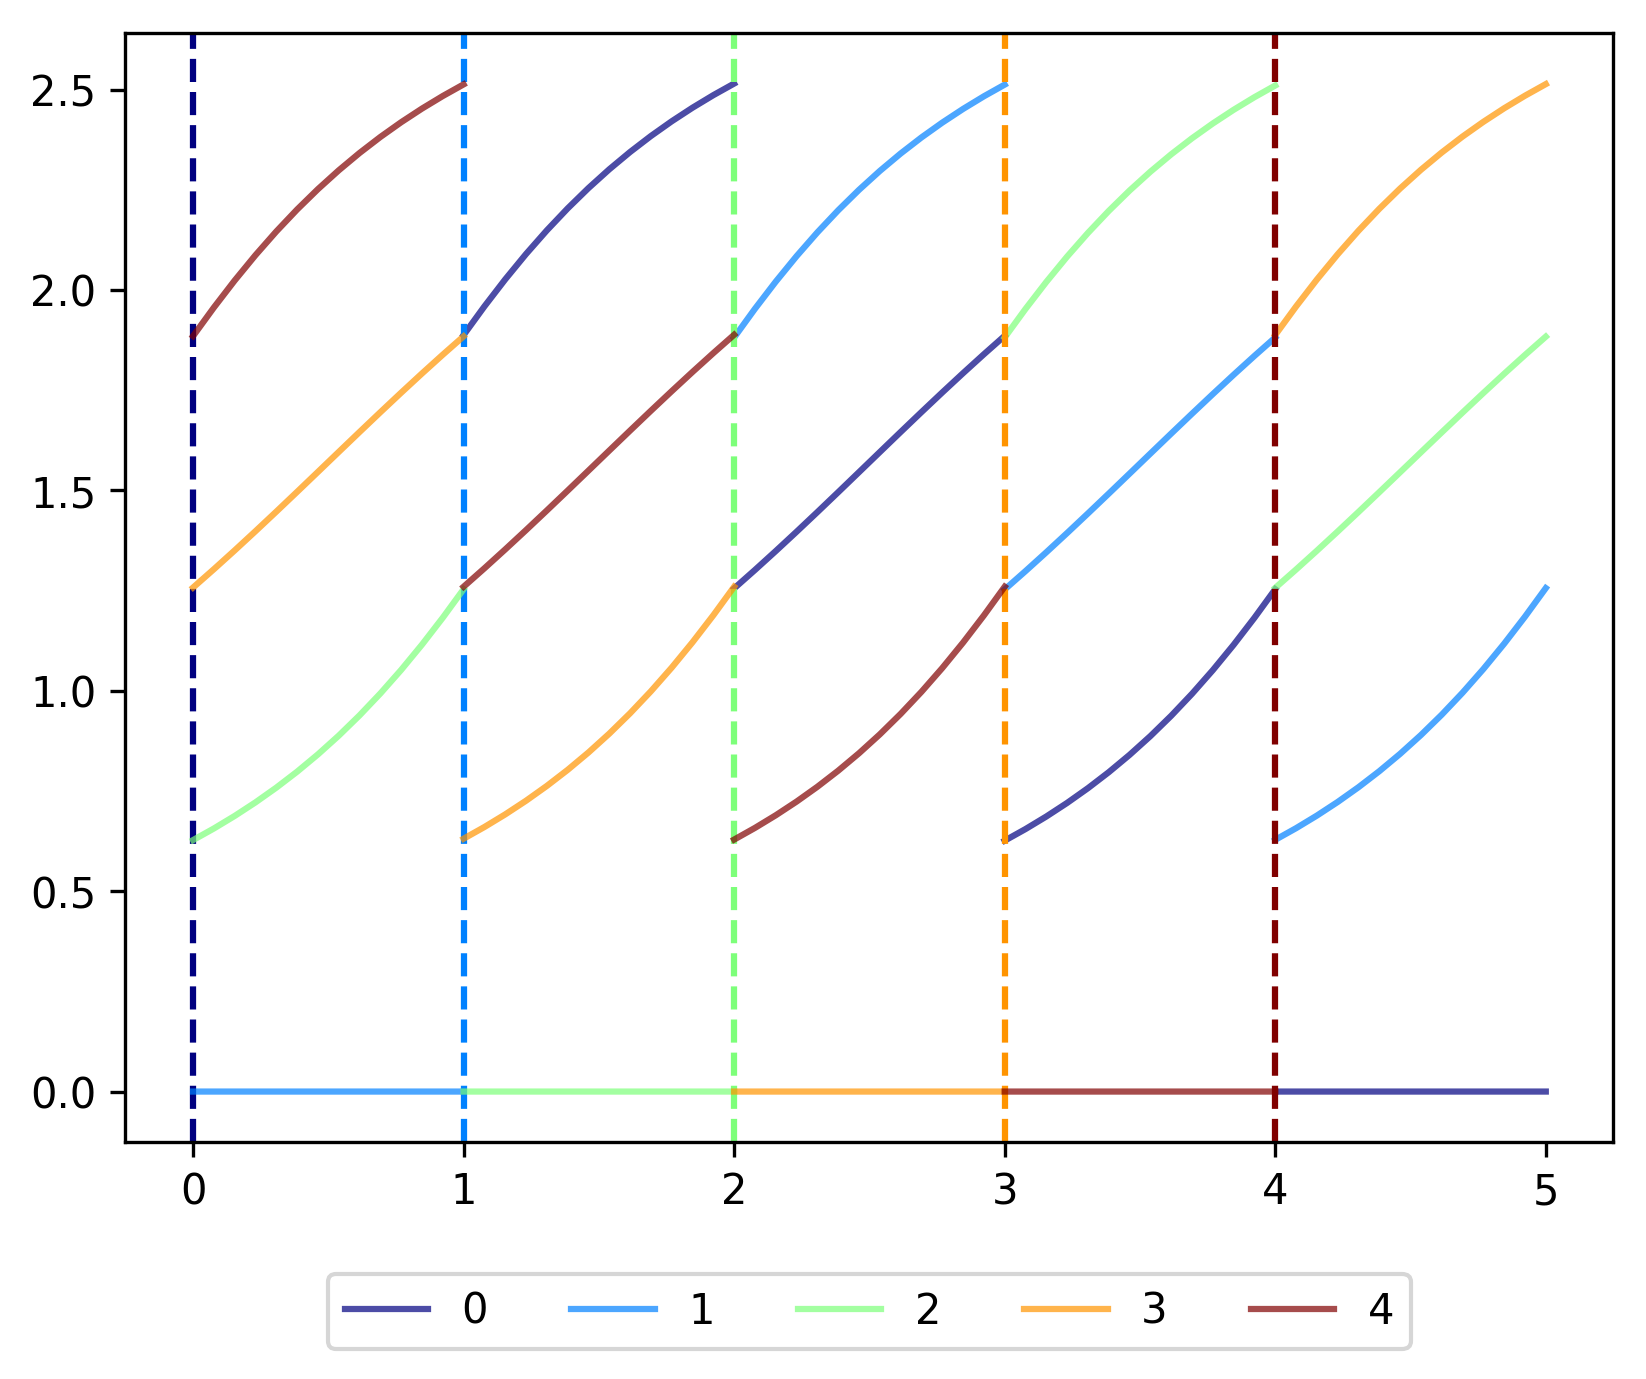
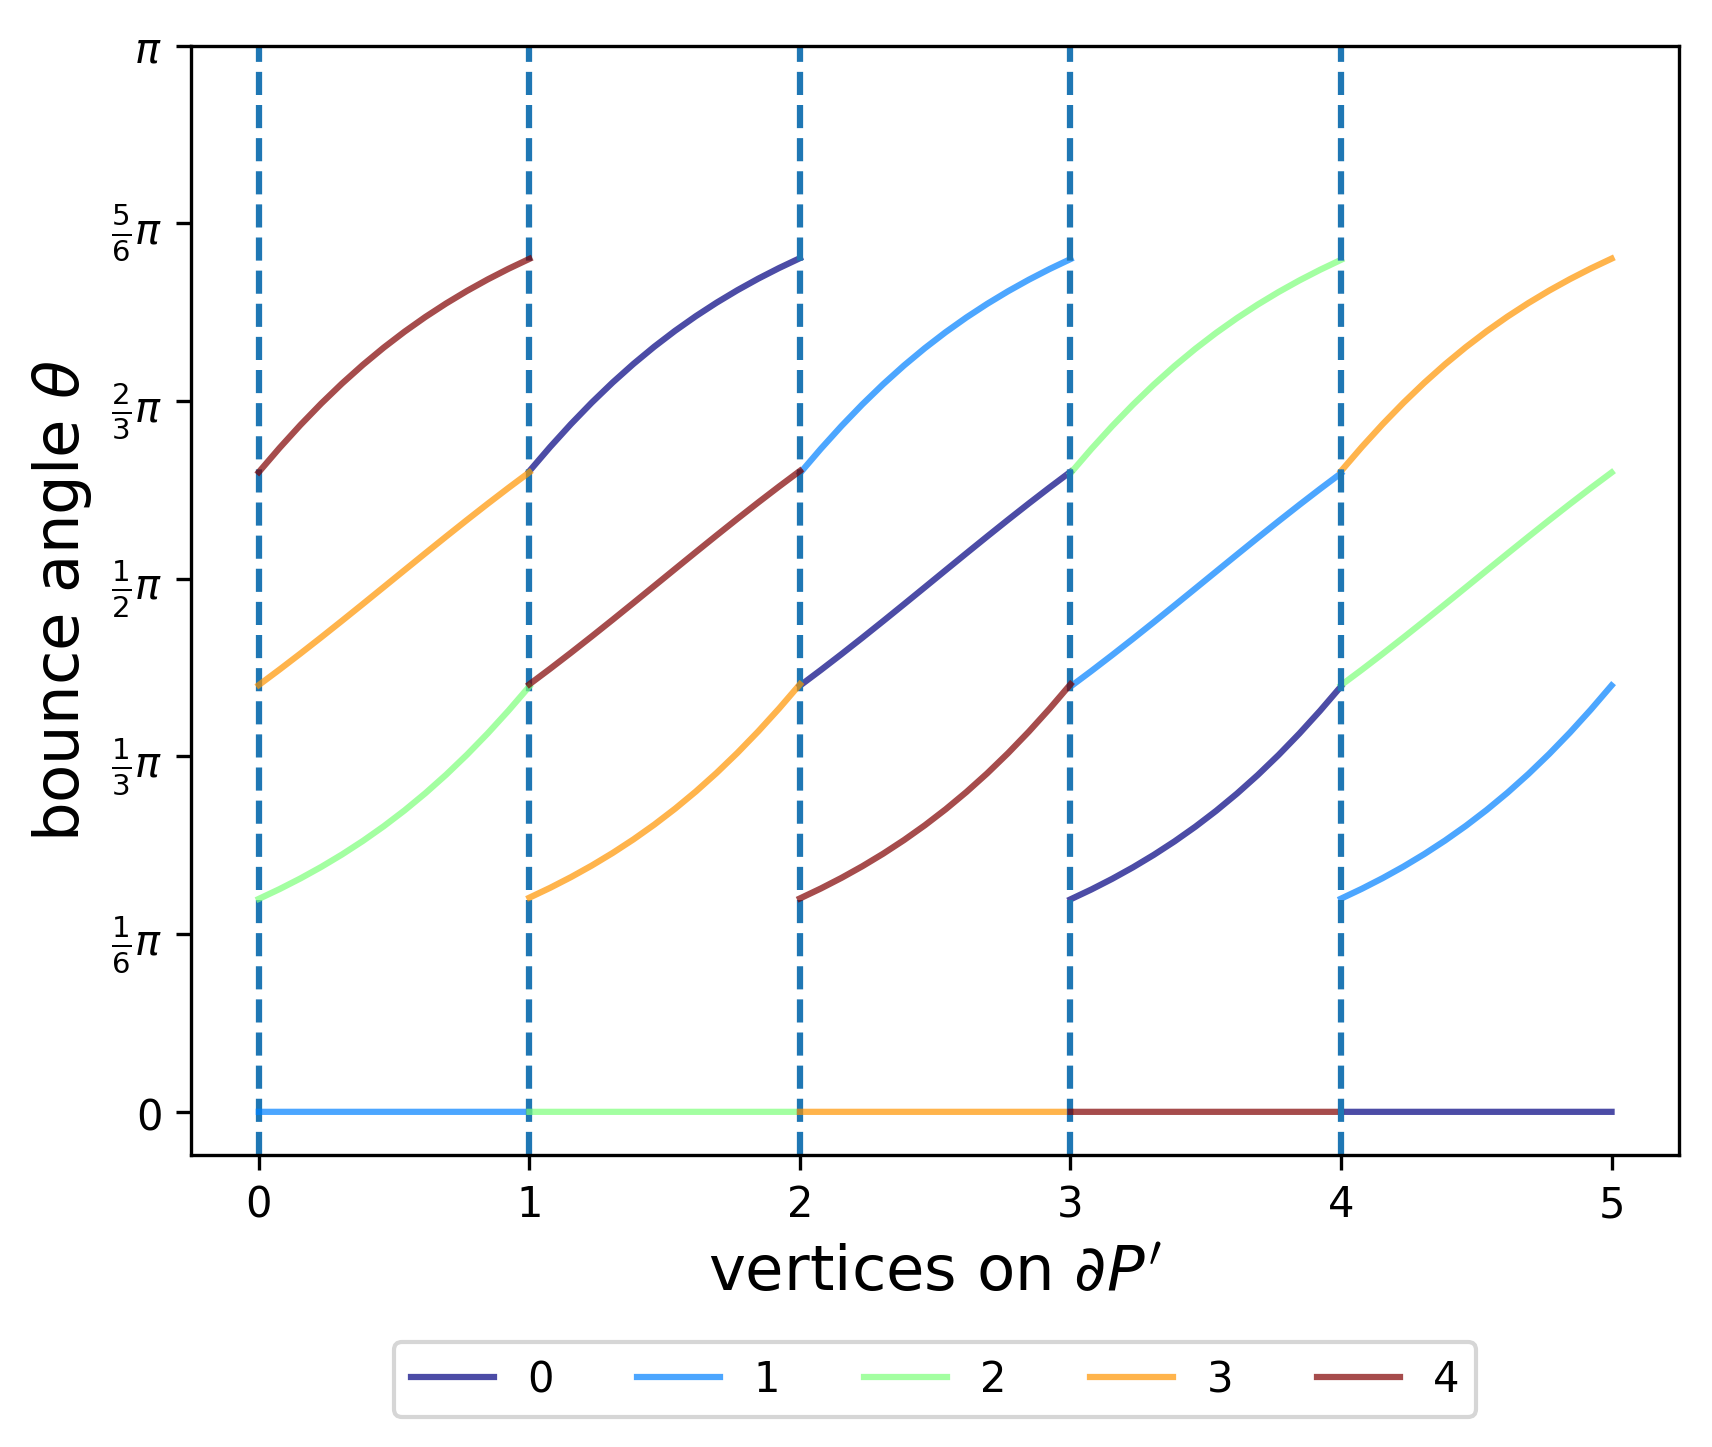
wafr_paper: update theoream 1; bounce_viz: update link diagram plotting labels

diff --git a/doc/wafr_paper.tex b/doc/wafr_paper.tex
@@ -897,43 +897,25 @@ strategies which result in a period $n$ limit cycle regardless of the robot's st
 {\color{red} shorten, make notation consistent with rest of paper}
 See Figure \ref{fig:conv_cycle} in the Appendix for the geometric setup.
 
-Without loss of generality, assume $\theta \in (0, \frac{\pi}{2}]$. Consider the
-triangle formed by two adjacent edges $e_i$, $e_{i+1}$ of $P$. The robot will
-bounce from $e_i$ to $e_{i+1}$ regardless of its start position if and only if
-$\theta \in (0, \angle v_{i+2}v_{i}v_{i+1})$. Thus, the robot will always bounce
+Without loss of generality, assume $\theta \in (0, \frac{\pi}{2}]$. The robot will always bounce
 to the next adjacent edge if and only if
 $\theta \in (0, \min_{i}(\angle v_{i+2}v_{i}v_{i+1})$.
 
 Suppose we have two start positions $x$ and $y$ on edge $e_0$ and the two
-corresponding trajectories under a constant fixed bounce law $b(\alpha) = \theta$. Denote the robot's
-position on $e_k$ after bouncing $k$ consecutive edges as $f^{k}(x)$ and
-$f^{k}(y)$ respectively. $\triangle f^{k}(x)v_{k+1}f^{k+1}(x)$ and
-$\triangle f^{k}(y)v_{k+1}f^{k+1}(y)$ are similar triangles since they share a
-common internal angle of the polygon, $\phi_{k,k+1}$, and the bouncing angle
-$\theta$.
-
-The distance between the two trajectories on $e_0$ after the robot bounces off
-every edge of the polygon, i.e., bounces off $n$ times, is
-$d(f^{n}(x), f^{n}(y))$.
-
-Since function composition multiplies the coefficients $C(\theta, \phi)$, 
+corresponding trajectories under a constant fixed bounce law $b(\alpha) = \theta$. Denote the positions of the two trajectories on $e_k$ as $f^{k}(x)$ and
+$f^{k}(y)$ and the distance between them as $d(f^{k}(x), f^{k}(y))$. Since function composition multiplies the coefficients $C(\theta, \phi)$, 
 the distance between $x$ and $y$ changes after one orbit of the polygon by the
-ratio
-
-\begin{eqnarray*}
-\frac{d(f^{n}(x)), f^{n}(y))}{d(f^{0}(x), f^{0}(y))} = \prod_{i = 0}^{n-1}
-C(\theta, \phi_{i-1, i}).
-\end{eqnarray*}
+ratio $\frac{d(f^{n}(x)), f^{n}(y))}{d(f^{0}(x), f^{0}(y))} = \prod_{i = 0}^{n-1}
+C(\theta, \phi_{i-1, i})$.
 
 If $\prod_{i = 0}^{n-1} C(\theta, \phi_{i}) < 1$, then $f^k(x)$ is a contraction
-mapping from $e_0$ back to iteself, and by the Banach fixed-point theorem, it
-has a unique fixed point \cite{Granas2003}.
+mapping from $e_0$ back to iteself, and has a unique fixed point by the Banach fixed-point theorem\cite{Granas2003}.
 
-Since all transition in this example are right transitions, the constraint $C(\theta,\phi_{i-1, i})<1$ is equivalent to $\theta < \frac{\pi}{2}-\frac{\phi_{i-1, i}}{2}$. So we can guarantee that this condition holds for the orbit by requiring
+Since all transitions in this case are right transitions, the constraint $C(\theta,\phi_{i-1, i})<1$ is equivalent to $\theta < \frac{\pi}{2}-\frac{\phi_{i-1, i}}{2}$. We can guarantee that this condition holds for the orbit by requiring
 
 \begin{equation*}
 \theta \in (0, \min(\min_{i = 0, 1, \dots, n-1}(\angle v_{i+2}v_{i}v_{i+1}),
-\frac{\pi}{2}-\frac{\phi_{i-1, i}}{2})),
+\min_{i = 0, 1, \dots, n-1}(\frac{\pi}{2}-\frac{\phi_{i-1, i}}{2}))),
 \end{equation*}
 
 \noindent

diff --git a/viz_utils.py b/viz_utils.py
@@ -69,7 +69,7 @@ def PlotLinkDiagram(link_diagram, resolution = 15, hline = None, fname = 'link_d
     psize = link_diagram.shape[0]
     jet = plt.cm.jet
     colors = jet(np.linspace(0, 1, psize))
-    plt.figure()
+    fig, ax = plt.subplots()
     x = []
     for j in range(psize):
         x.extend(list(np.linspace(j, j+1, resolution-1)))
@@ -77,9 +77,14 @@ def PlotLinkDiagram(link_diagram, resolution = 15, hline = None, fname = 'link_d
     for i in range(psize):
         plt.plot(x, link_diagram[i], label= '{}'.format(i), alpha=0.7, color = colors[i])
         plt.axvline(x=i, linestyle='--')
-    if hline != None:
-        plt.plot(range(psize+1), hline*np.ones(psize+1))
-    leg = plt.legend(loc=9, bbox_to_anchor=(0.5, -0.1), ncol=5)
+    # if hline != None:
+        # plt.plot(range(psize+1), hline*np.ones(psize+1))
+    leg = plt.legend(loc=9, bbox_to_anchor=(0.5, -0.15), ncol=5)
+    ax.set_xticks(range(psize+1))
+    ax.set_yticks([0., np.pi/6., np.pi/3., np.pi/2., 2*np.pi/3., 5*np.pi/6., np.pi])
+    ax.set_yticklabels(["$0$", r"$\frac{1}{6}\pi$", r"$\frac{1}{3}\pi$", r"$\frac{1}{2}\pi$", r"$\frac{2}{3}\pi$", r"$\frac{5}{6}\pi$", r"$\pi$"])
+    plt.xlabel(r"vertices on $\partial P'$", fontsize=15)
+    plt.ylabel(r"bounce angle $\theta$", fontsize=15)
     plt.savefig(fname, bbox_inches="tight", dpi = 300)
     plt.show()
 
@@ -133,19 +138,19 @@ def VizPath(poly, intervals):
 
 
 if __name__ == '__main__':
-    poly = simple_bit
-    VizRay(poly)
-    VizPoly(poly)
+    poly = pent
+    # VizRay(poly)
+    # VizPoly(poly)
     p1 = InsertAllTransitionPts(poly)
     link_diagram = GetLinkDiagram(p1)
     PlotLinkDiagram(link_diagram, hline = 1.4707)
-    print("inserted all transition pts")
-    VizPoly(p1)
-    G = mkGraph(p1, requireContract = False)
-    print("made graph")
-    PlotGraph(G)
-    H = mkSafeGraph(G, p1)
-    PlotGraph(H, "safe_graph")
+    # print("inserted all transition pts")
+    # VizPoly(p1)
+    # G = mkGraph(p1, requireContract = False)
+    # print("made graph")
+    # PlotGraph(G)
+    # H = mkSafeGraph(G, p1)
+    # PlotGraph(H, "safe_graph")
     #N = 3
     #for i in range(N):
     #    print(i,"th iteration")
